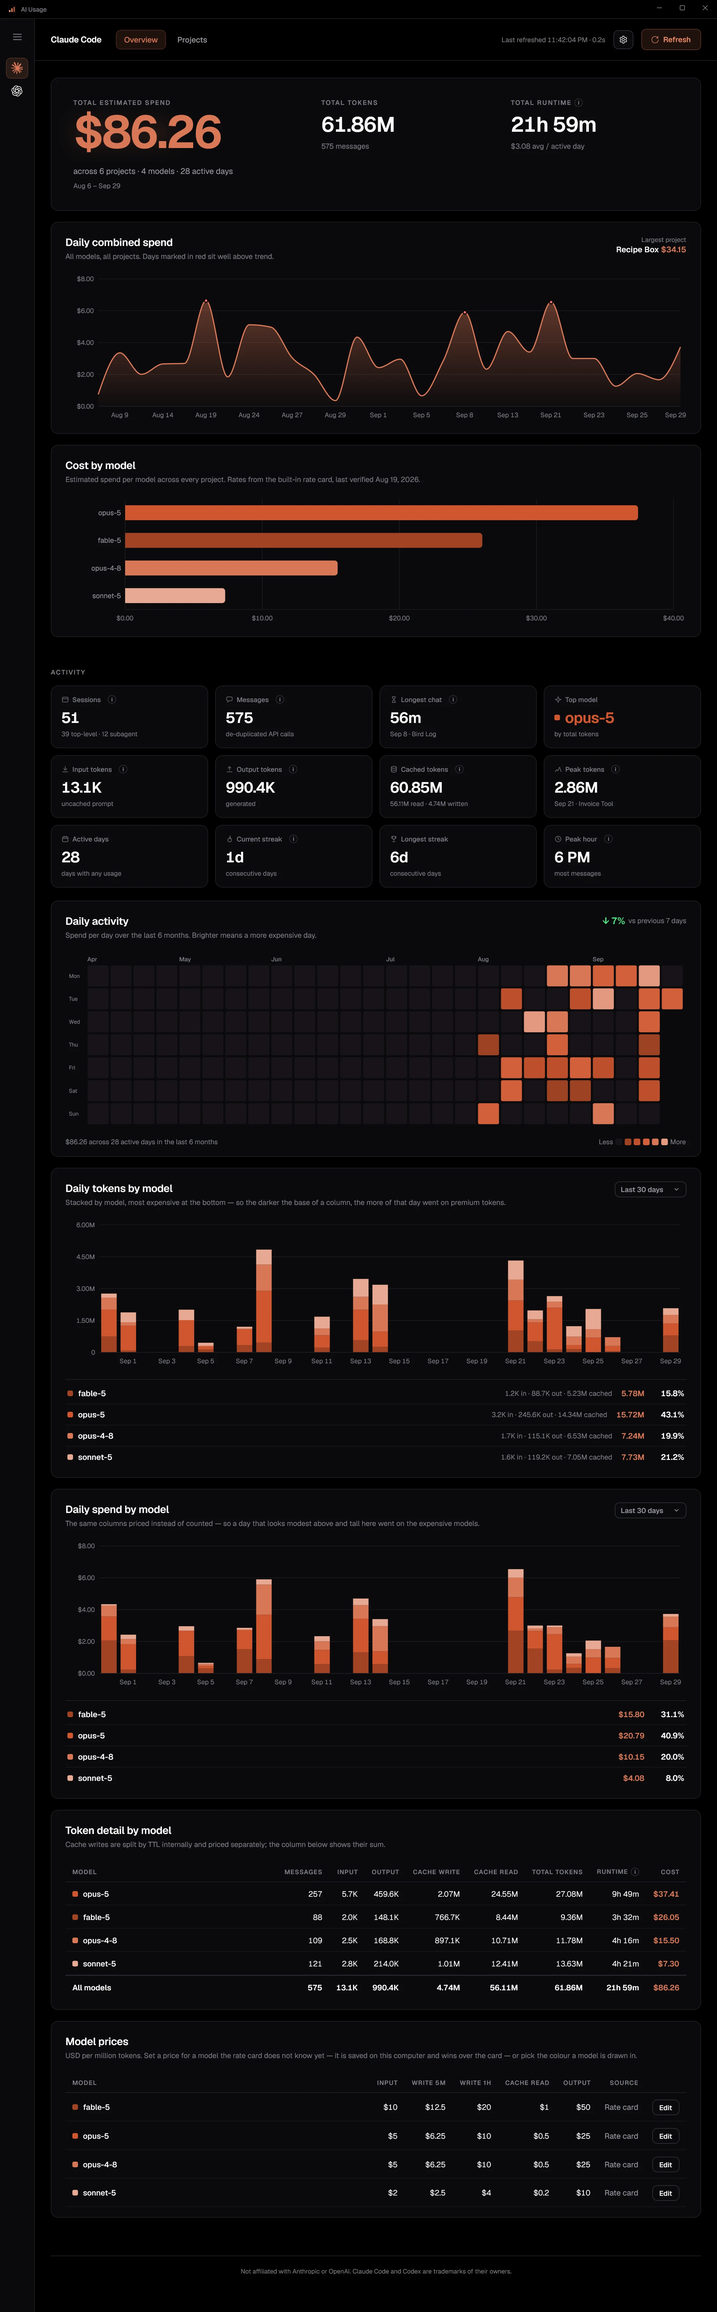
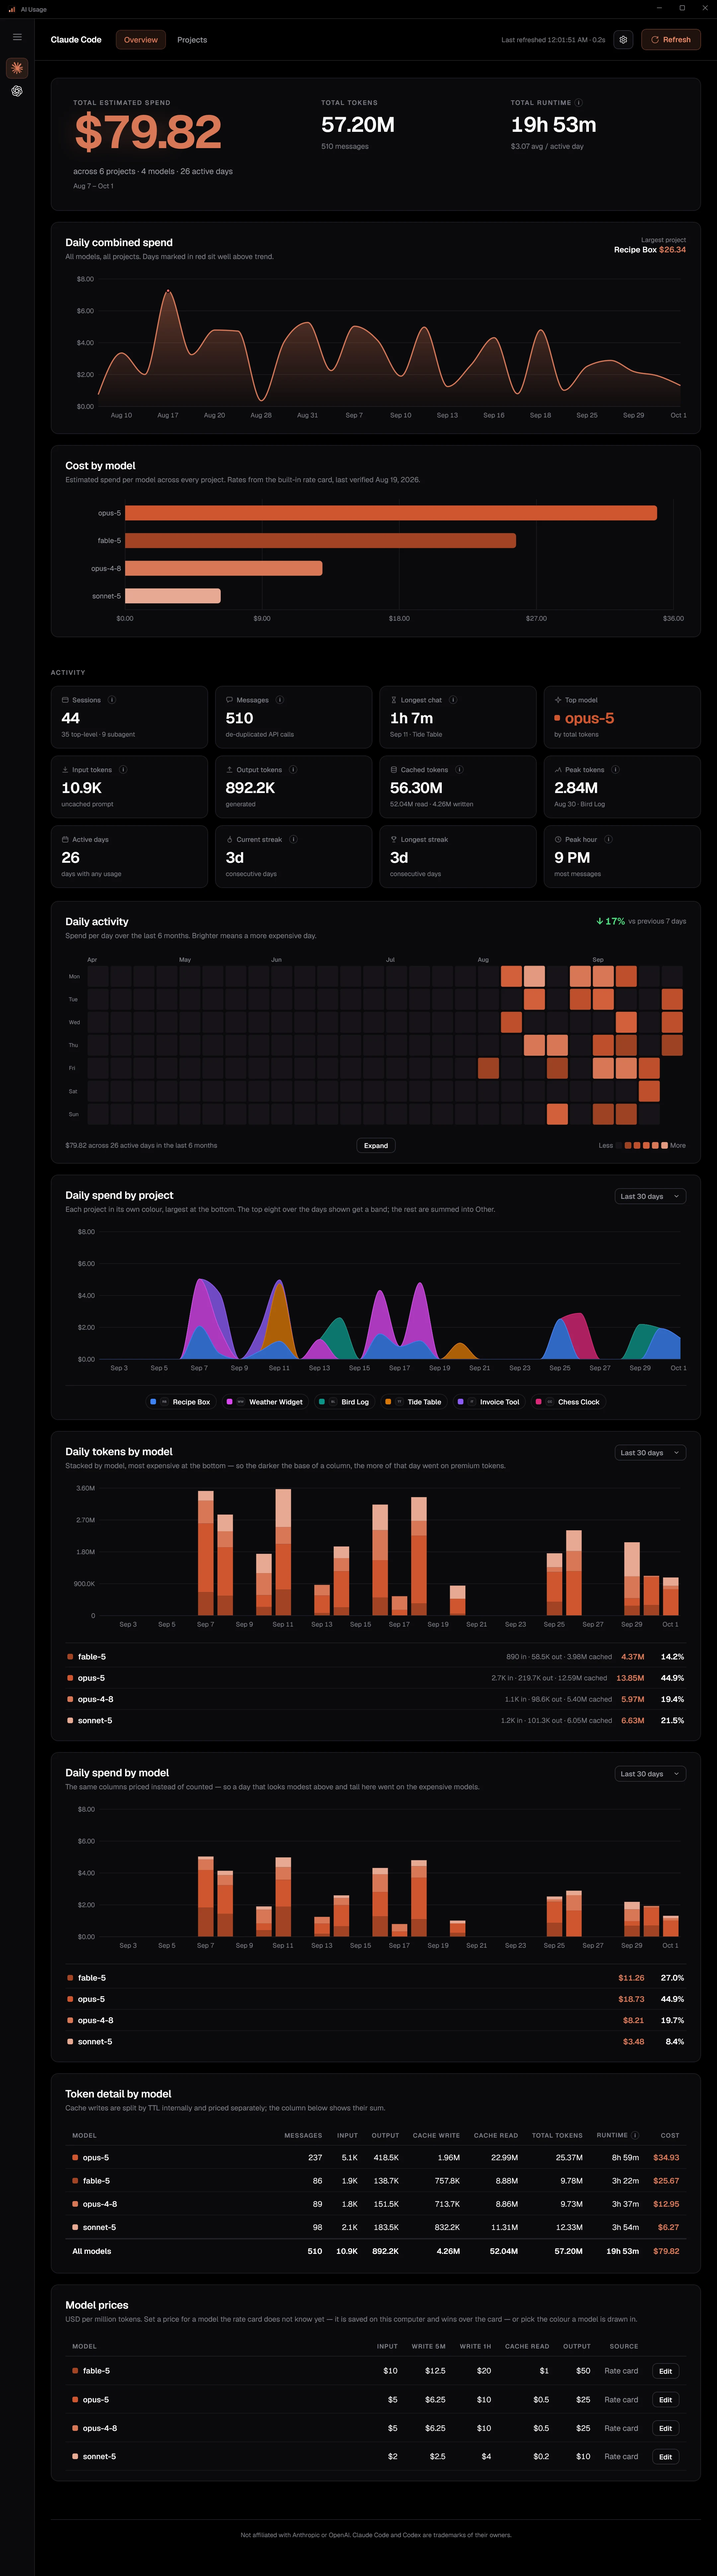
docs: regenerate the README screenshots, and add a light-theme one
Retaken on fresh demo data after the light theme, Daily spend by project and
per-project colours. Capture-Readme.ps1 now also takes the overview in the
light theme, set through the demo profile's app settings.

diff --git a/README.md b/README.md
@@ -13,15 +13,21 @@ Built with WinUI 3 on .NET 10. A native port of the
 [AI Usage Dashboard](https://github.com/naimulnashid/ai-usage-tracker) web app,
 sharing its design and its parsing rules but no code.
 
-![The whole Claude Code overview, top to bottom: total estimated spend, tokens and runtime; daily spend; the breakdown by model; cost by model; token detail; activity cards; daily tokens and spend by model; and the six-month heat map](docs/screenshots/overview-claude.webp)
+![The whole Claude Code overview, top to bottom: total estimated spend, tokens and runtime; daily spend; cost by model; activity cards; the six-month heat map; daily spend by project; daily tokens and spend by model; token detail and model prices](docs/screenshots/overview-claude.webp)
 
 <details>
-<summary><b>The projects page, and Codex</b></summary>
+<summary><b>The light theme, the projects page, and Codex</b></summary>
+
+A light theme sits beside the dark one - **Settings > Theme** picks Dark,
+Light, or the Windows setting.
+
+![The same Claude Code overview in the light theme: white cards on a grey page](docs/screenshots/overview-claude-light.webp)
 
 Projects open with a share-of-spend ring, because a ranked list looks the same
-whether the top project is 60% of your spend or 15%.
+whether the top project is 60% of your spend or 15%. Each project is drawn in
+its own colour - its logo's, or one you pick - and a slice opens it.
 
-![The projects page: a share-of-spend donut above the ranked list of projects, each with its share bar by model and its options menu](docs/screenshots/projects-claude.webp)
+![The projects page: a share-of-spend donut in per-project colours above the ranked list of projects, each with its share bar by model and its options menu](docs/screenshots/projects-claude.webp)
 
 Codex gets its own accent, and its headline says **API-equivalent spend**, not
 "total spend": it is commonly used on a flat subscription, where these tokens
